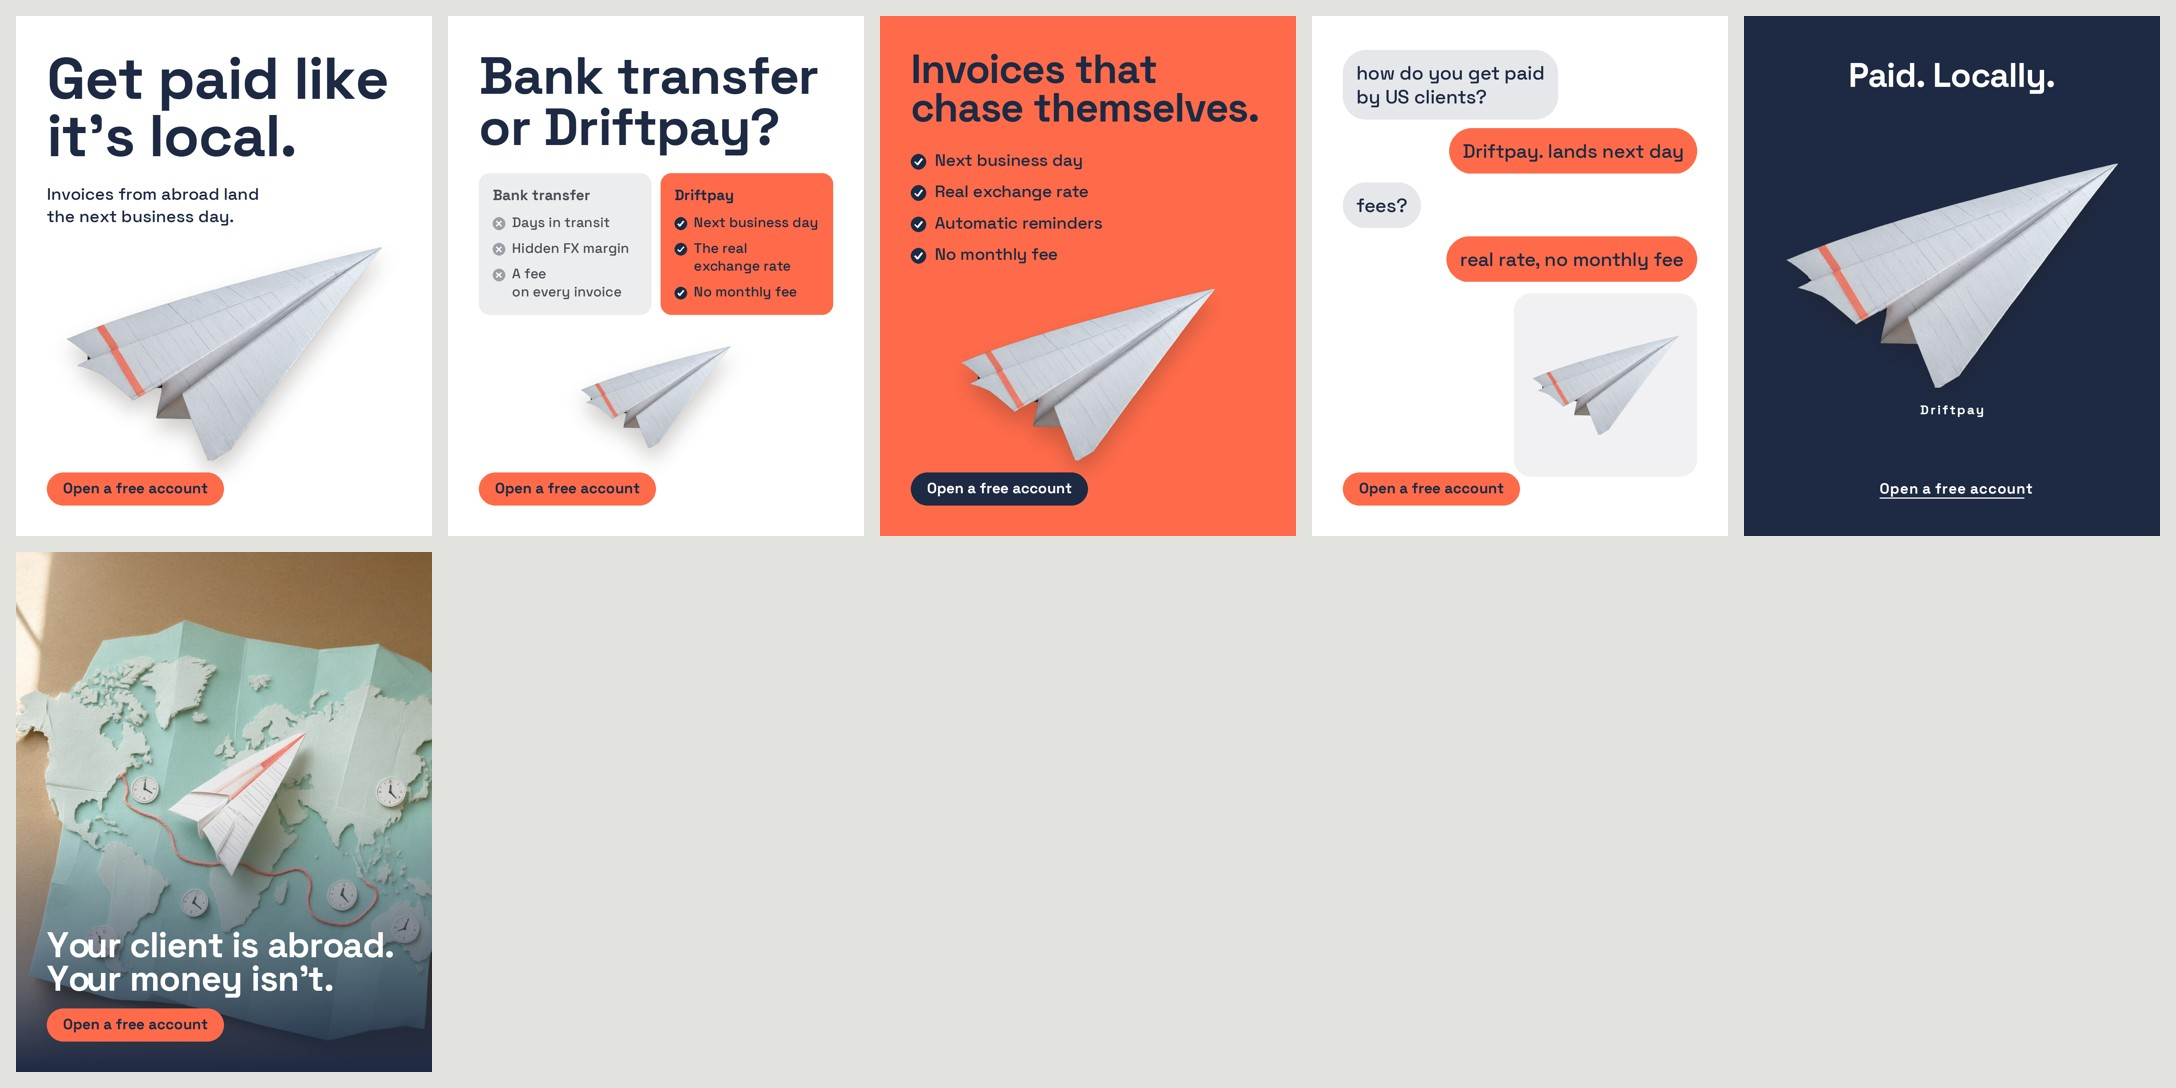
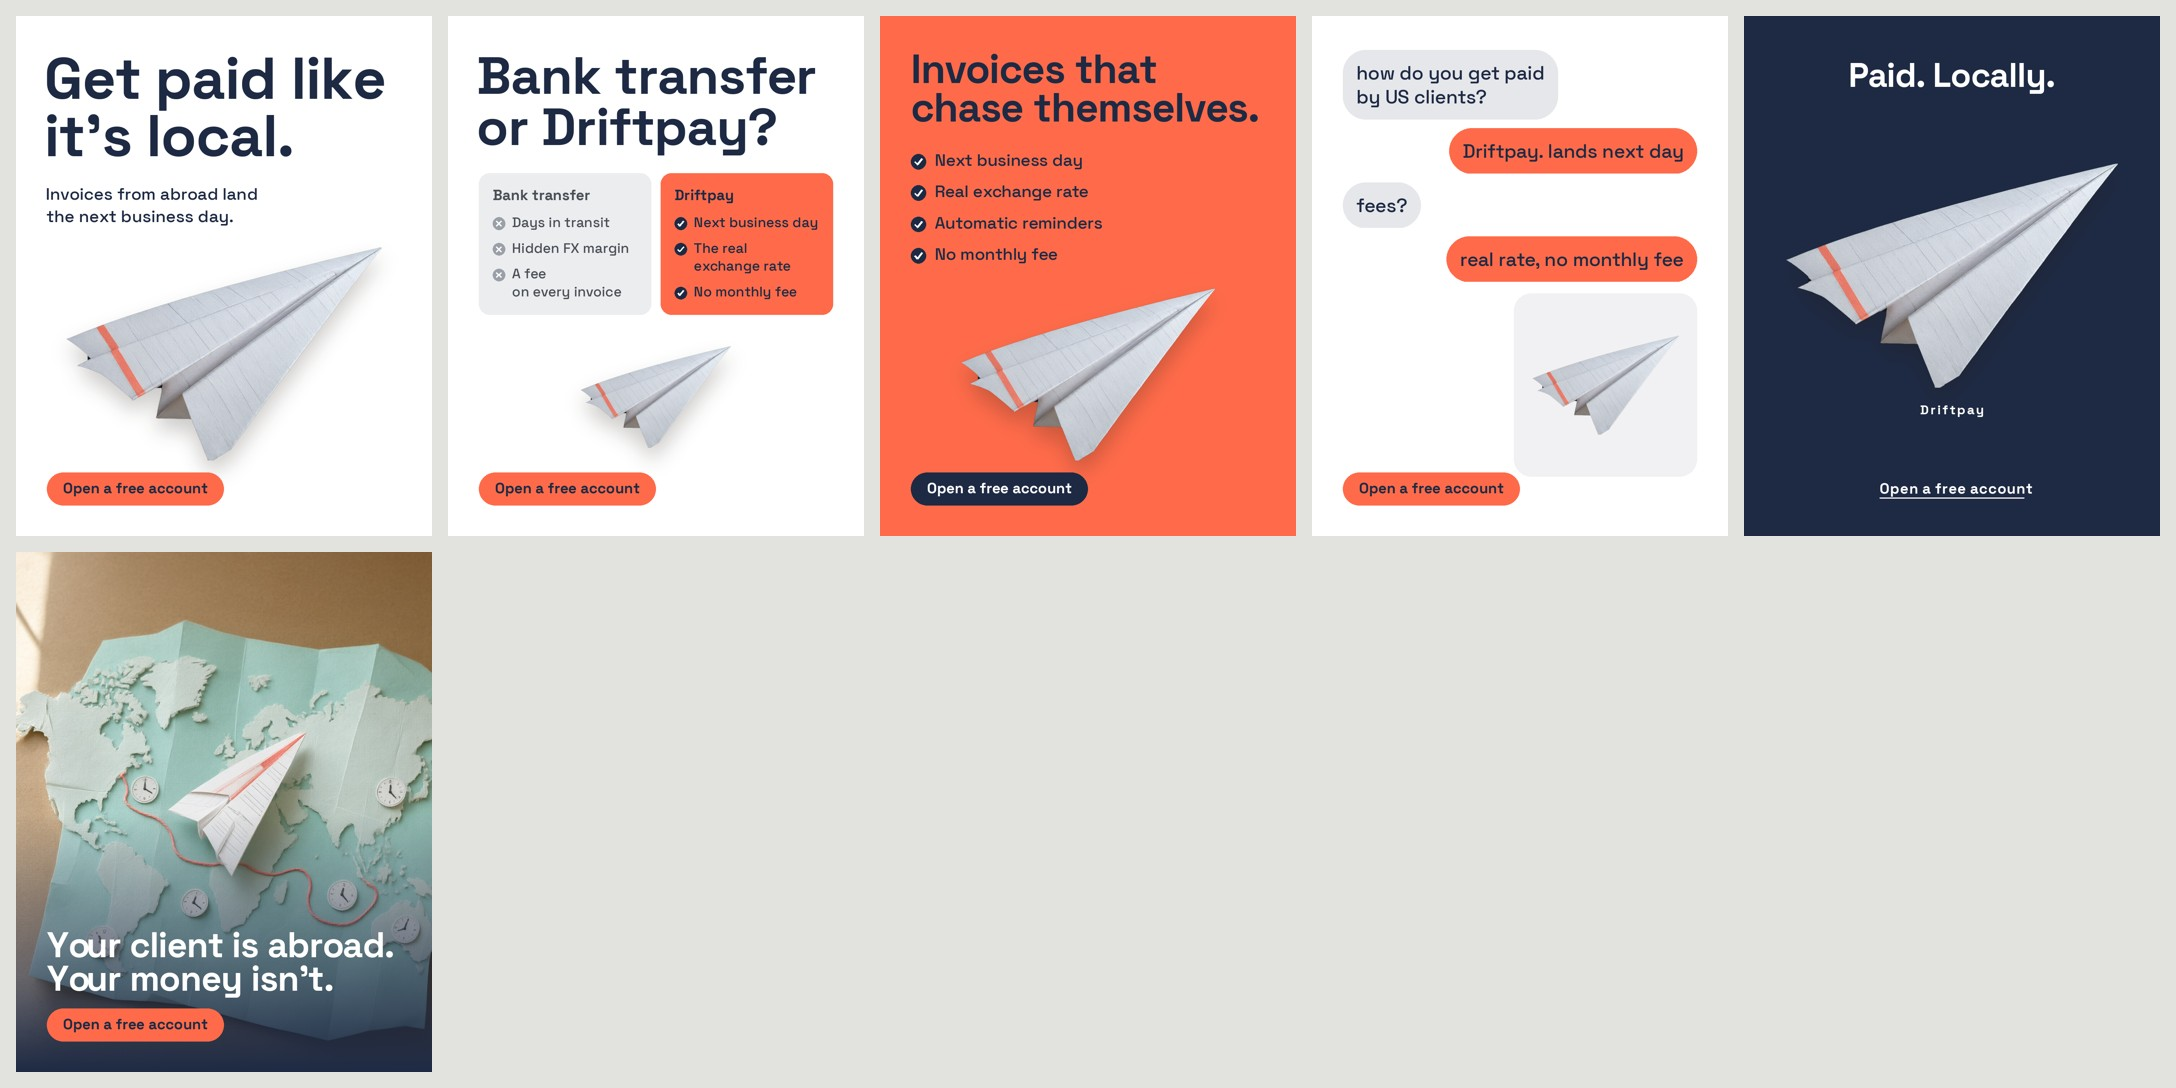
Renderer: real optical margin; layout check counts photo bands
- The optical margin read the side bearing from getbbox, which Pillow reports
  from the pen (always 0), so it never moved anything. ink_left now takes it
  from getmask2: big round letters were landing up to 11 px inside the margin.
- layout_checks counts a full-width photo band as content, so a frame built on
  one is no longer reported as an empty band.
- Self-test for the optical margin; driftpay sheet re-rendered; lesson L020.

Claude-Session: https://claude.ai/code/session_011byTmz2zxmhgh4bUMtrGmv

Changed region(s): [[0.0, 0.0312, 0.1875, 0.2188], [0.2188, 0.0625, 0.375, 0.1562]]

diff --git a/scripts/static_render.py b/scripts/static_render.py
@@ -87,6 +87,14 @@ def line_width(fnt, text, size, ls):
     return fnt.getlength(text) + max(0, tracked(text) - 1) * ls / 100 * size
 
 
+def ink_left(fnt, ch):
+    """Distance from the pen to the first inked pixel of ch: its real left side bearing. (getbbox can't
+    give this: Pillow reports the box from the pen, so its left edge is 0 for every glyph.)"""
+    mask, off = fnt.getmask2(ch, anchor="ls")
+    bb = mask.getbbox()
+    return max(0, off[0] + bb[0]) if bb else 0
+
+
 def draw_line(img, ctx, x, top, text, style, size, colors_at, ls=-2, lh=100):
     """One line of text; colors_at(i) gives the colour of character i. Returns (width, box height)."""
     fnt = ctx.f(style, size)
@@ -383,7 +391,7 @@ def render_frame(fr, ctx, layer=None):
                     if t[0] in "\u201c\u2018\"'":
                         lx -= fnt.getlength(t[0])                        # hanging punctuation
                     else:
-                        lx -= max(0, fnt.getbbox(t[0], anchor="ls")[0])  # the stem, not the side bearing, on the margin
+                        lx -= ink_left(fnt, t[0])                        # the stem, not the side bearing, on the margin
                 draw_line(canvas, ctx, lx, y + i * size * lh / 100, t, style, size, lambda _: col, ls, lh)
             box = (x, y, it.get("width") or tw, th)
         elif kind == "stack":

diff --git a/scripts/static_formats.py b/scripts/static_formats.py
@@ -771,7 +771,8 @@ def layout_checks(name, ctx, W, H):
                 out.append(f'{name}: "{label(it)}" is {c:.1f}:1 on the pixels behind it; needs {need_c}:1')
     if not plate:
         spans = sorted((bx[1], bx[1] + bx[3]) for k, bx, it, _ in d
-                       if k in TYPE_KINDS or k == "rect" or (k == "image" and it.get("fit") == "contain"))
+                       if k in TYPE_KINDS or k == "rect"
+                       or (k == "image" and (it.get("fit") == "contain" or it.get("w") == W)))   # a cut-out or a photo band
         if spans:
             merged = [list(spans[0])]
             for a0, a1 in spans[1:]:

diff --git a/taste/lessons.md b/taste/lessons.md
@@ -97,3 +97,9 @@ Rules learned from real results. Each one names its evidence and where it is enf
 - **Also:** never let the words you don't want reach the main prompt. On the rerun (enhance off) the negative list was pasted into the prompt box, and Wan drew exactly those things: blinds, a crimson wall, darkening. Give a person running a model one prompt to paste, with no negative list next to it
 - **Enforced in:** scripts/loop.py (make --layout renders each clip frame through the static's own layout)
 - **Added:** 2026-10-01
+
+### L020 · Alignment is measured on the ink, never trusted from the code. Pillow's getbbox reports a glyph's box from the pen, so its left edge is 0 for every glyph: an optical margin built on it does nothing. Big round letters then start up to 11 px inside the margin, and no check notices
+- **Evidence:** Byoma round 3, 2026-10-02: a new alignment check (render each block alone, read its first ink) found "3-1-1" at 300 px starting 11 px right of the margin and every other block 1 to 3 px off, in the type system v1 work that called itself optically aligned. getmask2 gives the real side bearing
+- **Also:** an image tool may ignore the asked aspect ratio (Flow returned 16:9 for a 9:16 ask). Check the size first; a landscape image runs as a full-width band, scaled down, rather than a portrait crop scaled up
+- **Enforced in:** scripts/static_render.py (ink_left); scripts/selftest.sh (optical margin test)
+- **Added:** 2026-10-02
